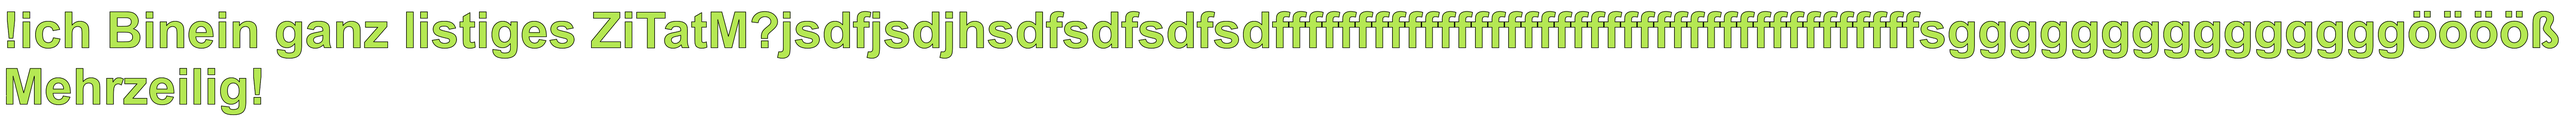
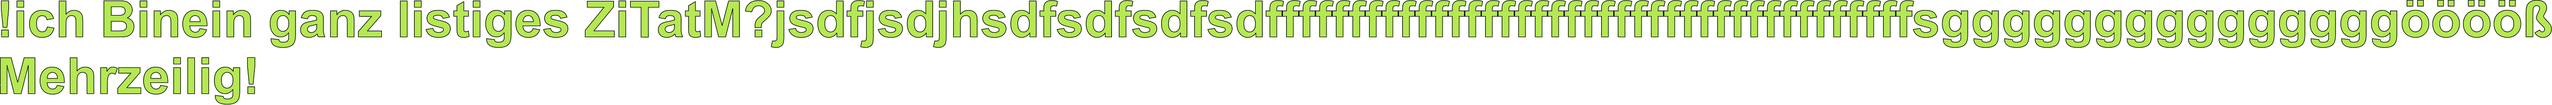
fixed size of images in webpage

Changed region(s): [[0.0, 0.0, 1.0, 0.488], [0.0, 0.5455, 0.1244, 1.0]]

diff --git a/index.html b/index.html
@@ -64,7 +64,10 @@
     printf(<span class="st">&quot;einfaches C file</span><span class="ch">\n</span><span class="st">&quot;</span>);
 }</code></pre></div>
 <blockquote>
-<p><img src="quotes/4e7d33b497069ddd999095030104f0d4.png" alt="Zitat" /></p>
+<p><img src="quotes/4e7d33b497069ddd999095030104f0d4.png" style="height: 2em" alt="Zitat" /></p>
+</blockquote>
+<blockquote>
+<p><img src="quotes/1eaa5ca238a063c33b8e9229ae21d804.png" style="height: 1em" alt="Zitat" /></p>
 </blockquote>
       </section>
     </div>

diff --git a/build.rb b/build.rb
@@ -1,7 +1,6 @@
 #!/usr/bin/ruby
 # 
 # make sure you have pandoc, imagemagick and optipng installed
-# maybe you need to adjust font_size and font_width for your system
 # if you changed these values do not push them!
 #
 require "digest/md5"
@@ -11,9 +10,11 @@ class String
 		self[/#{Regexp.escape(marker1)}(.*?)#{Regexp.escape(marker2)}/m, 1]
     end
 
-    def draw_screenshot font_size, font_width, target_filename, main_color, stroke_color
-		estimated_width = self.length * font_width
+    def draw_screenshot font_size, target_filename, main_color, stroke_color
+		estimated_width = self.length * font_size
 	    estimated_rows  = self.count("\n") + 1
+
+	    full_path = "#{Dir.pwd}/#{target_filename}"
 
 	    params = [
 	    	"-size #{estimated_width}x#{estimated_rows * font_size * 1.2}",
@@ -24,8 +25,15 @@ class String
 	    	"-draw \"text #{font_size*0.05},#{font_size*0.95} '#{self}'\""
 	    ]
 
-	    puts "\t\tinvoke imagemagick"
-	    system("convert #{params.join ' '} #{Dir.pwd}/#{target_filename}")
+	    puts "\t\tinvoke imagemagick (creation)"
+	    system("convert #{params.join ' '} #{full_path}")
+
+	    puts "\t\tinvoke imagemagick (resize)"
+	    system("convert #{full_path} -fuzz 1% -trim +repage #{full_path}.shrink.png")
+
+	    puts "\t\tget rid of tempfiles"
+	    File.delete(full_path)
+	    File.rename("#{full_path}.shrink.png", full_path)
 
 	    puts "\t\tinvoke optipng"
 	    old_size = File.size target_filename
@@ -52,12 +60,13 @@ while filecontent.include? "IMGQUOTE" do
 
     unless File.exist? screenshot_path
     	font_size  = 100
-    	font_width =  41
-    	quote.strip.draw_screenshot font_size, font_width, screenshot_path, "'#B5E853'", "black"
+    	quote.strip.draw_screenshot font_size, screenshot_path, "'#B5E853'", "black"
     end
 
+    lines = quote.strip.count("\n") + 1
+
     replacement = "> \n"+
-                  "> ![Zitat](#{screenshot_path}) \n"+
+    			  "> <img src=\"#{screenshot_path}\" style=\"height: #{lines}em\" alt=\"Zitat\" />\n"+
                   "> \n"
 
     filecontent.gsub!("<IMGQUOTE>#{quote}</IMGQUOTE>", replacement)
@@ -80,7 +89,14 @@ File.open(tempfile, 'w') do |file|
 end
 
 puts "invoke pandoc..."
-include_formats=["footnotes", "fenced_code_attributes", "simple_tables", "markdown_in_html_blocks"]
+include_formats=[
+	"footnotes", 
+	"fenced_code_attributes", 
+	"simple_tables", 
+	"markdown_in_html_blocks", 
+	"link_attributes"
+]
+
 pandoc_params  =[
 	"--smart",
 	"--toc",

diff --git a/readme.md b/readme.md
@@ -19,3 +19,7 @@ int main(){
 !ich Binein ganz listiges ZiTatM?jsdfjsdjhsdfsdfsdfsdfffffffffffffffffffffffffffffffffffffffsgggggggggggggggööööß
 Mehrzeilig!
 </IMGQUOTE>
+
+<IMGQUOTE>
+oder auch ganz klein
+</IMGQUOTE>
